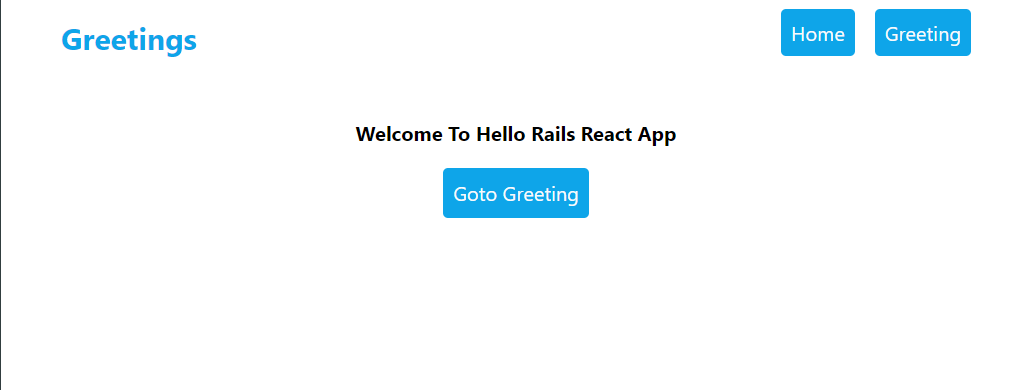
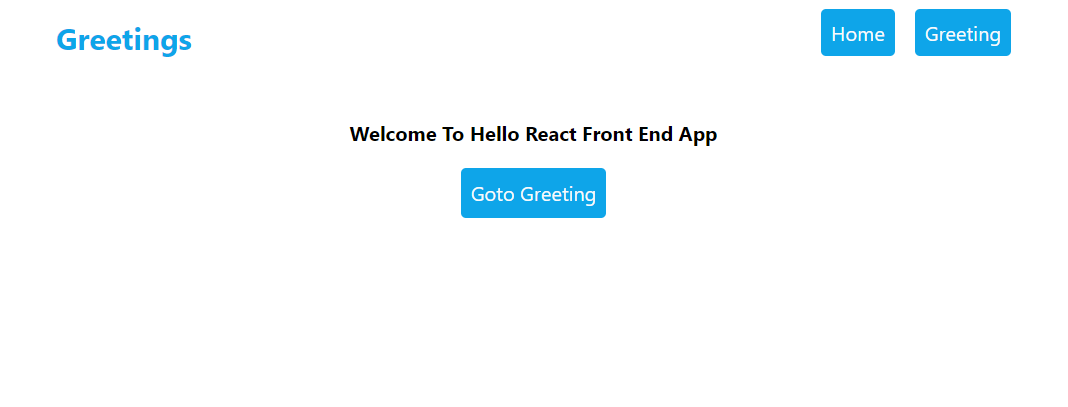
Update README file

diff --git a/src/component/Home.js b/src/component/Home.js
@@ -3,7 +3,7 @@ import { NavLink } from 'react-router-dom';
 
 const Home = () => (
   <div className="flex flex-col items-center mt-12">
-    <p className="font-bold">Welcome To Hello Rails React App</p>
+    <p className="font-bold">Welcome To Hello React Front End App</p>
     <NavLink to="/greeting" className="bg-sky-500 p-2 rounded text-slate-50 mt-4">Goto Greeting</NavLink>
   </div>
 );

diff --git a/README.md b/README.md
@@ -14,6 +14,11 @@
 
 ![screenshot](./src/assets/greeting.png)
 
+
+## Link to the back end
+
+[Hello Rails back end](https://github.com/thecodechaser/hello-rails-back-end)
+
 ## Built With
 
 - HTML
